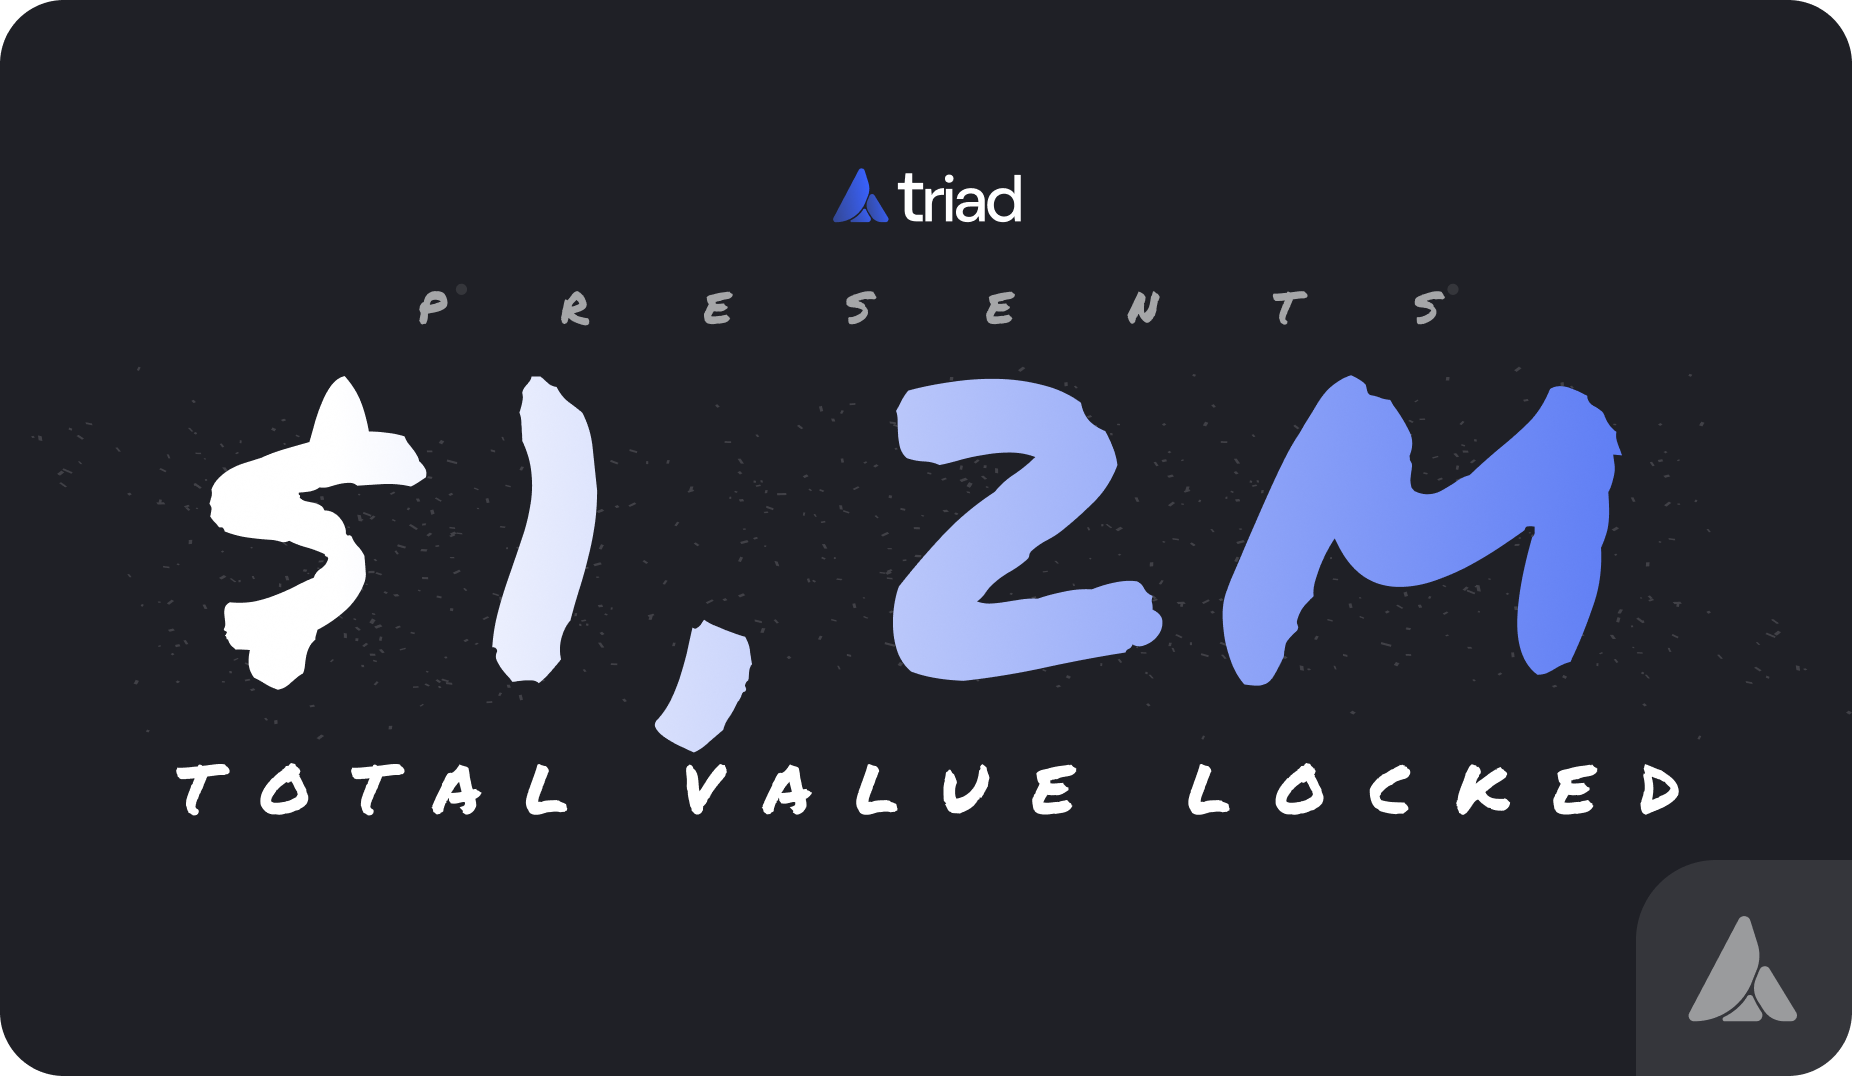
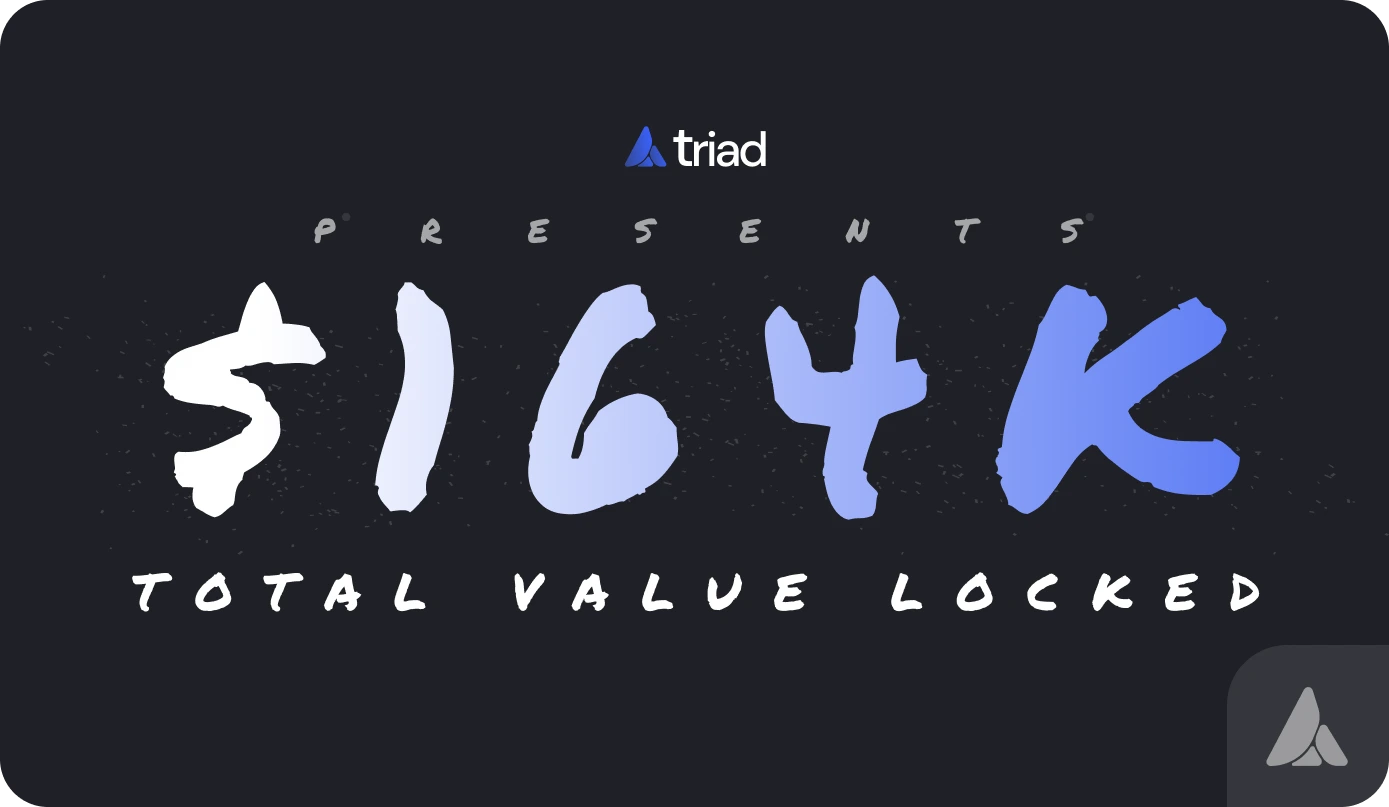
adjust image

diff --git a/src/components/news.tsx b/src/components/news.tsx
@@ -4,7 +4,7 @@ import CardNew from "./card-new";
 const dataNews = [
   {
     img: "img/locked_value.webp",
-    title: "Total Value Locked (TVL): $1,200,000.00 USDC  💰",
+    title: "Total Value Locked (TVL): $164,000.00 USDC  💰",
     description:
       "Our Triad Staking Platform has reached a key milestone, underscoring our commitment to enhancing user rewards.",
     date: new Date(),
